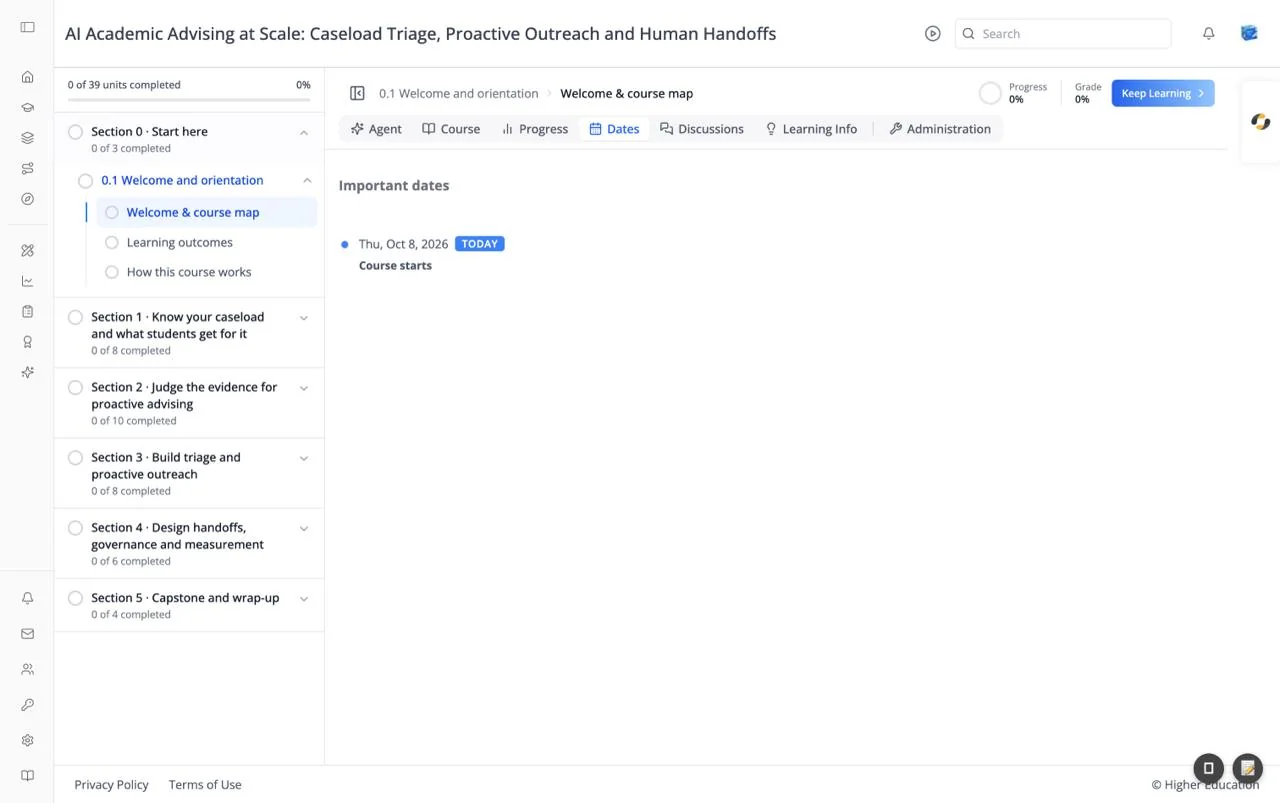
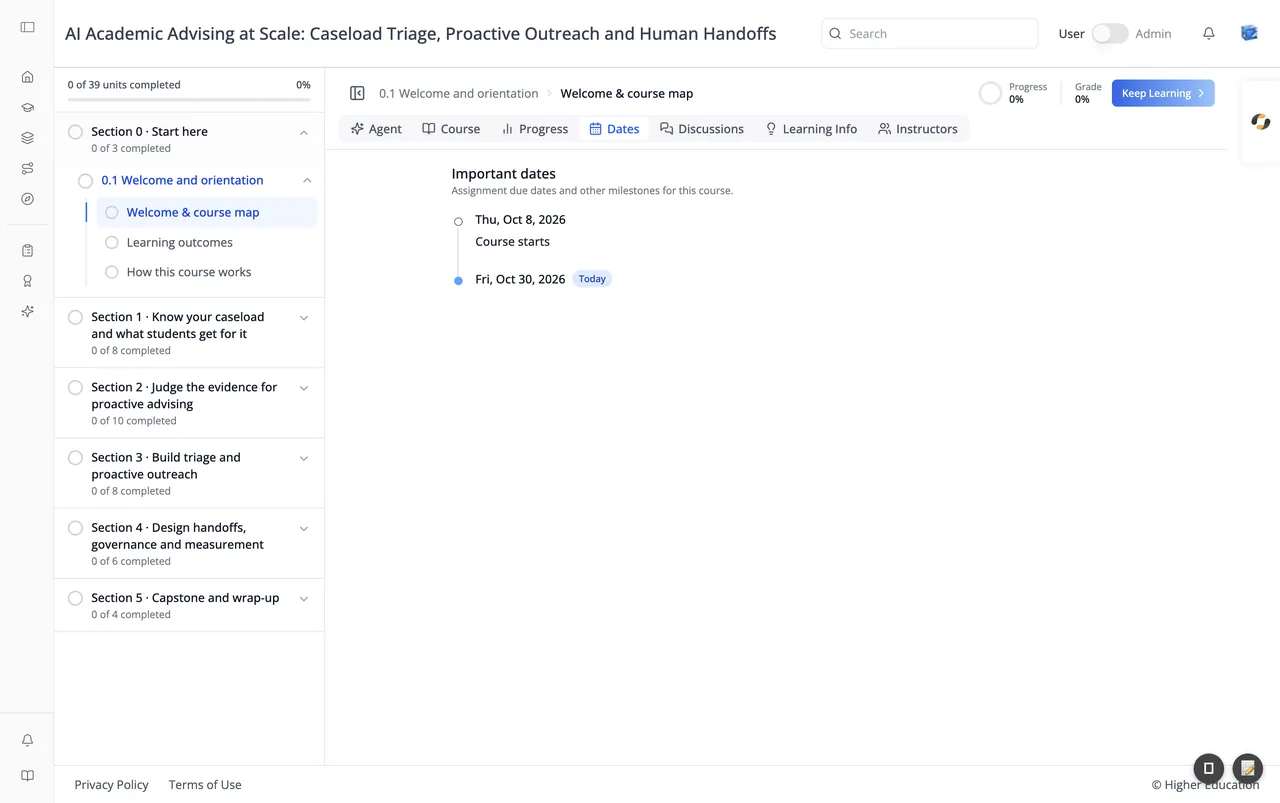
feat: user/admin switch + help center + course content progress, dates, discussions new ui update

diff --git a/lms/course/discussions.md b/lms/course/discussions.md
@@ -1,12 +1,12 @@
 # Course: Discussions Tab
 
-![The Discussions tab with My posts, All posts, Topics, and Learners tabs, a Search all posts box, and an Add a post button above the empty state "Nothing here yet"](../images/course/course_discussions.webp)
+![The Discussions tab on All posts: a left menu with All posts, My posts, Topics, and Learners, a "Search all posts" box with an Add a post button, filters for All post types, Any status, and Recent activity, and the empty state "Nothing here yet. Be the first to start a conversation."](../images/course/course_discussions.webp)
 
 ## Overview
 
-The Discussions tab is the course forum, where learners and the course team post questions, answer each other, and talk about the material. Units can also link to a discussion topic of their own.
+The Discussions tab is the course forum, where learners and the course team post questions, answer each other, and talk about the material. A menu on the left switches between four views, and the view you pick opens on the right. Units can also link to a discussion topic of their own.
 
-When there are no posts yet, the page reads "Nothing here yet": "All discussion activity for your course will show up here."
+When there are no posts yet, the page reads "Nothing here yet. Be the first to start a conversation."
 
 ## Target Audience
 
@@ -14,25 +14,42 @@ When there are no posts yet, the page reads "Nothing here yet": "All discussion 
 
 ## Features
 
-#### My posts / All posts / Topics / Learners
-Four views across the top: posts you wrote or follow, every post in the course, posts grouped by topic, and a list of learners with their activity.
+#### All posts and My posts
+**All posts** lists every post in the course; **My posts** lists the posts you wrote. Both have the same tools above the list:
 
-#### Search all posts
-Searches post titles and text.
+- **Search all posts**: searches post titles and text.
+- **Post type**: **All post types**, **Discussions**, or **Questions**.
+- **Status**: **Any status**, **Unread**, **Following**, **Unanswered**, or **Unresponded**. Course staff also get **Reported**.
+- **Sort**: **Recent activity**, **Most activity**, or **Most votes**.
+
+Click a post to open it with its responses and replies.
+
+#### Topics
+![The Topics view: a "Find a topic" search box above a list grouped under headings such as General, 0.1 Welcome and orientation, and 1.1 The caseload problem, each topic showing its count of discussions and questions](../images/course/course_discussions_topics.webp)
+
+Topics follow the course outline: a **General** topic, then one heading per subsection with a topic for each of its units (for example "Welcome & course map" under "0.1 Welcome and orientation"). Each topic shows how many discussions and questions it holds. Type in **Find a topic** to filter the list, and click a topic to see its posts.
+
+#### Learners
+![The Learners view: a "Search learners by username" box with a Most activity sort, and a table with Learner, Posts, Responses, Replies, and Reported columns that reads "No learners have posted yet."](../images/course/course_discussions_learners.webp)
+
+A table of everyone who has taken part, with their **Posts**, **Responses**, **Replies**, and **Reported** counts. Search by username, and sort by **Most activity** or **Recent activity** (course staff can also sort by **Most reported**). Click a learner to see their posts. The course team can turn this view off.
 
 #### Add a post
-Starts a new post: choose a topic, write a title and your message, and post it as a question or a discussion.
+Click **Add a post** and choose a **Post type**: **Question** ("Ask something and get an answer") or **Discussion** ("Share ideas and start a conversation"). Then pick a **Topic area**, give the post a title, and write it; Markdown is supported. **Follow this post** is ticked by default so you hear about replies, and courses that allow it offer **Post anonymously**.
+
+#### Inside a post
+Vote for a post or a response, follow or unfollow the post, copy a link to it, or report it to the course team. Reply to a response to start a thread under it. You can edit or delete your own posts and responses.
 
 #### Moderation
-Moderators, administrators, and community TAs can edit, pin, close, and remove posts. These roles are given in [Membership](../course-administration/membership.md).
+Moderators, administrators, and community TAs can also edit, pin, close, reopen, and delete any post, and mark a response as the answer to a question or endorse it. These roles are given in [Membership](../course-administration/membership.md).
 
 ## How to Use
 
 #### Step 1: Look before you post
-Search, or browse **Topics**, to see whether someone has already asked your question.
+Search **All posts**, or browse **Topics**, to see whether someone has already asked your question.
 
 #### Step 2: Add a post
-Click **Add a post**, choose a topic, and write your question or discussion.
+Click **Add a post**, choose Question or Discussion, pick a topic, and write your post.
 
 #### Step 3: Follow up
-Open **My posts** to see replies to your posts.
+Open **My posts**, or set the status filter to **Following**, to see replies to the posts you care about.

diff --git a/lms/getting-started/navigation.md b/lms/getting-started/navigation.md
@@ -4,7 +4,7 @@
 
 ## Overview
 
-Every screen in the LMS shares the same frame: an icon rail on the left, a top bar with search, notifications, and your avatar, an AI agent tab on the right edge, and a footer at the bottom. This page explains each part of that frame so the screen-by-screen pages can focus on what is unique to them.
+Every screen in the LMS shares the same frame: an icon rail on the left, a top bar with search, notifications, and your avatar (plus a User / Admin switch for administrators), an AI agent tab on the right edge, and a footer at the bottom. This page explains each part of that frame so the screen-by-screen pages can focus on what is unique to them.
 
 The left rail starts collapsed to icons. Hover an icon to see its label, or click the panel icon at the very top to expand the rail into a full sidebar with labels next to each icon and your organization's logo. On a phone the rail is hidden; tap the menu button in the top bar to open it as a slide-out sheet.
 
@@ -64,11 +64,30 @@ The **Search** box searches the whole catalog of courses, programs, and pathways
 #### Notification bell
 The bell shows a red badge with your unread count (capped at "99+"). Clicking it opens a dropdown of recent notifications, each with its title and how long ago it arrived. Click one to open it and mark it read, click **Mark all as read** to clear the badge, or click **View all** to go to the [inbox](../notifications/inbox.md).
 
+#### User / Admin switch
+![The Home page for an administrator with the top-bar switch set to Admin: the left rail includes the Studio, Analytics, and organization tools](../images/getting-started/navigation_admin_mode.webp)
+
+Platform administrators get a **User** / **Admin** switch in the top bar, between the search box and the bell. It starts on **Admin** each time the page loads. Switch it to **User** to see the LMS exactly as a learner does, without leaving your account:
+
+![The same Home page with the switch set to User: the left rail shows only the learning icons, Gradebook, Credentials, and Skills, and the footer keeps only Notifications and Support](../images/getting-started/navigation_user_mode.webp)
+
+- The rail drops **Studio**, **Analytics**, and the administrator footer tools (**Invites**, **Management**, **Integrations**, **Monetization**, **Advanced**).
+- Inside a course, the staff tabs (**Administration** and course **Analytics**) disappear, and the Agent and Course tabs follow the rules set for learners.
+- Course creation, program settings tabs, and administrator notification tools are hidden.
+
+If you switch to User on a page only staff can see, the LMS moves you to a page a learner can: a course's staff tab goes to its Course tab, and an Analytics page goes to Home. Your role and access don't change; only the view does, and reloading the page puts you back in Admin.
+
+Learners never see the switch. On screens narrower than a large laptop, it moves from the top bar into the avatar menu.
+
 #### Avatar menu
+![The avatar menu open over the Home page, listing Profile, the Higher Education organization switcher, Help with an external-link icon, and Log Out](../images/getting-started/avatar_menu_help.webp)
+
 Your avatar (your uploaded photo, a Gravatar, or your initials) opens a menu with:
 
 - **Profile**: opens the [profile dialog](../profile/profile-dialog.md) on its Basic tab.
+- **User / Admin switch**: on smaller screens only, for administrators (see above).
 - **Organization switcher**: shows the current organization and lets you switch to another one you belong to. It appears when you are an administrator or belong to more than one organization. Clicking the organization name opens its [organization settings](../organization-settings/overview.md) if you manage it.
+- **Help**: opens your organization's help center in a new tab. Administrators can point it at their own support site or hide it in the organization's settings; otherwise it opens ibl.ai support.
 - **Log Out**.
 
 Visitors who are not signed in see **Log in** and **Sign up for free** instead.
@@ -89,7 +108,7 @@ The first time you sign in, a short guided tour points out the main controls. Ea
 | 1 | Your profile | The avatar menu | Always |
 | 2 | Search | The search box | Discover is enabled |
 | 3 | Discover | The Discover icon | Discover is enabled |
-| 4 | Manage your organization (administrators) or Management (watchers) | The sidebar footer tools | You are an administrator or a watcher |
+| 4 | Manage your organization (administrators) or Management (watchers) | The sidebar footer tools | You are an administrator or a watcher, in Admin mode |
 
 Finishing or skipping both count as seen, and the result is saved to your account, so the tour does not return on another device. Press `Esc` to skip; clicking the dimmed background does nothing. Add `?tour=1` to the page's URL to replay it. The tour does not run on phones, inside courses, during onboarding, or on the Start screen.
 

diff --git a/lms/course/progress.md b/lms/course/progress.md
@@ -1,10 +1,10 @@
 # Course: Progress Tab
 
-![The Progress tab with a Course completion donut at 0%, a Grades bar showing the current grade against a 70% passing grade, a banner stating a weighted grade of 70% is required to pass, and the Grade summary table](../images/course/course_progress.webp)
+![The Progress tab headed "Your progress", with a Course completion donut at 0% beside a "0% complete / 100% incomplete" breakdown, a Grades bar showing Current grade 0% against a Passing grade of 70%, and the Grade summary table listing AI Assessment (60%) and Capstone Assessment (40%)](../images/course/course_progress.webp)
 
 ## Overview
 
-The Progress tab, headed "Your progress", shows how far through the course you are and where your grade stands against the grade you need to pass.
+The Progress tab, headed "Your progress", shows "How much of the course you have completed and how you are doing on graded work."
 
 ## Target Audience
 
@@ -13,16 +13,22 @@ The Progress tab, headed "Your progress", shows how far through the course you a
 ## Features
 
 #### Course completion
-A donut chart of the share of course content you have completed. "Note that some content may not yet be released."
+A donut chart of the share of course content you have completed, with a breakdown beside it: **% complete**, **% incomplete**, and, when part of the course is open only to learners on another track, **% locked**. "Note that some content may not yet be released."
 
 #### Grades
-A bar comparing **Your current grade** with the **Passing grade** (for example 70%). A banner beneath states the requirement, for example "A weighted grade of 70% is required to pass in this course".
+A bar comparing your **Current grade** with the **Passing grade** (for example 70%), with a marker at the pass line. A line beneath states the requirement, for example "A weighted grade of 70% is required to pass in this course." When the course uses letter grades, the grade ranges are listed too, and once you are passing the tab says so ("You're currently passing this course.").
 
 #### Grade summary
-A table of the course's assignment types with columns **Assignment Type**, **Weight**, **Grade**, and **Weighted Grade**. For example, an "AI Assessment" type worth 60% of the course grade. Your weighted grades add up to your overall grade.
+A table of the course's assignment types with columns **Assignment type**, **Weight**, **Grade**, and **Weighted grade**, ending in a **Weighted grade summary** row. For example, "AI Assessment" worth 60% and "Capstone Assessment" worth 40%. Your weighted grades add up to your overall grade. A course with no graded work says "This course has no graded assignments."
 
 #### Detailed grades
-Further down, your score on each graded subsection.
+Your score on each graded subsection, grouped by section. Where a subsection has scored problems, **Show** lists each problem's score (for example 1/2) and **Hide** folds them away again. Subsections you can't access carry a lock icon. Until you have a score, the table reads "You currently have no graded problem scores."
+
+#### Certificate status
+When the course awards a certificate, a card explains where you stand: what you still need to qualify, when final grades and certificates become available, or a **Request certificate** or **View certificate** button once you have earned one.
+
+#### Related links
+Shortcuts to the [Dates](dates.md) tab ("Upcoming assignments and deadlines") and the [Discussions](discussions.md) tab ("Ask questions and talk with the class").
 
 ## How to Use
 
@@ -31,3 +37,6 @@ Use the donut to see how much is left.
 
 #### Step 2: Check your standing
 Compare your current grade with the passing grade, and use the Grade summary to see which assignment types count most.
+
+#### Step 3: Find weak spots
+Under **Detailed grades**, click **Show** on a subsection to see which problems cost you points.

diff --git a/lms/course/dates.md b/lms/course/dates.md
@@ -1,10 +1,10 @@
 # Course: Dates Tab
 
-![The Dates tab headed Important dates, listing "Thu, Oct 8, 2026" with a TODAY badge and "Course starts"](../images/course/course_dates.webp)
+![The Dates tab headed "Important dates", with the subtitle "Assignment due dates and other milestones for this course." and a vertical timeline: "Thu, Oct 8, 2026" with "Course starts", followed by today, "Fri, Oct 30, 2026", marked with a Today badge](../images/course/course_dates.webp)
 
 ## Overview
 
-The Dates tab, headed "Important dates", is a timeline of the course's key dates: when it starts, when assignments are due, and when it ends. Today's date is marked with a **TODAY** badge so you can see what is coming up.
+The Dates tab, headed "Important dates", lists "Assignment due dates and other milestones for this course." as a vertical timeline: when the course starts, when each assignment is due, and when the course ends. Today always has its own point on the timeline, marked **Today**, so you can see at a glance what is behind you and what is coming up.
 
 ## Target Audience
 
@@ -13,12 +13,30 @@ The Dates tab, headed "Important dates", is a timeline of the course's key dates
 ## Features
 
 #### Timeline
-Each entry shows the date (for example "Thu, Oct 8, 2026") and what happens then (for example "Course starts"). Due dates for graded work appear here too.
+Each point on the timeline is a day. Under it are the things that happen that day, for example "Course starts" or an assignment due date with its type and time. Dates are written in your browser's language and shown in your time zone; when your account has a time zone set, the subtitle names it.
+
+#### Status badges
+Days and assignments carry a badge when it helps:
+
+| Badge | Means |
+|---|---|
+| **Today** | Today's date |
+| **Completed** | You have finished the assignment |
+| **Past due** | The due date has passed and the assignment is not finished |
+| **Due next** | The next assignment you need to finish |
+| **Not yet released** | The assignment is scheduled but not open yet |
+| **Verified only** | The assignment is open only to learners on a verified track |
+
+#### Shift due dates
+In a self-paced course with a suggested schedule, missing a deadline shows a notice: "It looks like you missed some important deadlines based on our suggested schedule." Click **Shift due dates** to move the past-due assignments into the future without losing any progress. If you are auditing a course whose graded work is for verified learners only, the notice explains how to upgrade instead.
 
 ## How to Use
 
 #### Step 1: Plan ahead
 Check the tab at the start of the course and note each due date.
 
-#### Step 2: Check your extensions
+#### Step 2: Catch up
+If you fall behind in a self-paced course, click **Shift due dates** to get a fresh schedule.
+
+#### Step 3: Check your extensions
 If the course team has given you more time on an assignment, your new due date shows here. See [Extensions](../course-administration/extensions.md).

diff --git a/lms/course/layout.md b/lms/course/layout.md
@@ -48,9 +48,9 @@ The row of tabs under the header. Tabs that don't fit collapse into a **More** m
 | [Discussions](discussions.md) | The course forum | Always |
 | [Learning Info](learning-info.md) | What you will learn | The course lists learning outcomes |
 | [Instructors](instructors.md) | Who teaches the course | The course lists instructors |
-| [Administration](../course-administration/overview.md) | Tools for running the course | You are on the course team, or an administrator |
+| [Administration](../course-administration/overview.md) | Tools for running the course | You are on the course team, or an administrator, and the [User / Admin switch](../getting-started/navigation.md) is on Admin |
 
-A course can limit the Agent and Course tabs to a particular audience (all learners, watchers, or administrators). If you open a tab you can't use, you are moved to the one you can.
+A course can limit the Agent and Course tabs to a particular audience (all learners, watchers, or administrators). If you open a tab you can't use, you are moved to the one you can. Administrators who switch to User see the course's tabs as a learner does.
 
 #### Lesson complete
 In agent-led courses where the agent marks units complete, your organization can turn on a **Lesson complete** dialog. When you finish a unit it asks "Ready to keep learning?" with **Stay here**, **Previous unit**, and **Keep Learning**.
